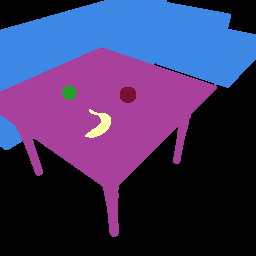
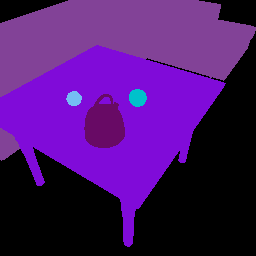
reality woven

diff --git a/datasets/twd_generation_simple4.py b/datasets/twd_generation_simple4.py
@@ -22,13 +22,13 @@ model_record2 = "wood_chair"
 full_library = ModelLibrarian("models_core.json")
 model_record = full_library.get_record("sink_cabinet_unit_wood_beech_honey_chrome_composite")
 #model_record2 = "sink_cabinet_unit_wood_beech_honey_chrome_composite"
-model_record2 = full_library.get_record("molteni_turner_sofa")
-model_record3 = full_library.get_record("b04_banana")
-model_record4 = full_library.get_record("toaster_002")
-model_record5 = full_library.get_record("teatray")
+model_record2 = full_library.get_record("b05_dacor_double_wall_oven")
+model_record3 = full_library.get_record("b04_orange_00")
+
+model_record5 = full_library.get_record("skillet_closed")
 
 dx = 0.0
-dz = 0.2
+dz = 0.3
 
 commands = [TDWUtils.create_empty_room(12, 12),
             #TDWUtils.create_room_from_image("/Users/melkor/Downloads/1.jpg"),
@@ -38,7 +38,7 @@ commands = [TDWUtils.create_empty_room(12, 12),
                             object_id = object_id),
 
             c.get_add_object(model_name = model_record2.name,
-                             position = {"x": -0.7, "y": 0, "z": -0.3},
+                             position = {"x": -0.7, "y": 0, "z": 0.3},
                              #library = "models_flex.json",
                              object_id = object_id2),
 
@@ -47,30 +47,16 @@ commands = [TDWUtils.create_empty_room(12, 12),
                             #library = "models_flex.json",
                             object_id = object_id3),
 
-            c.get_add_object(model_name = model_record4.name,
-                            position = {'x':1.1 + dx, 'y':1.0, 'z':+0.4 + dz},
+
+            c.get_add_object(model_name = model_record5.name,
+                            position = {'x':1.1 + dx, 'y':1.0, 'z':+0.6 + dz},
                             #library = "models_flex.json",
-                            object_id = object_id4),
-
-
-            {"$type": "add_object",
-                                  "name": model_record5.name,
-                                  "position" : {'x':1.1 + dx, 'y':1.0, 'z':+0.7 + dz},
-                                  "url": model_record5.get_url(),
-                                  "scale_factor": 0.6,
-                                  "rotation": model_record5.canonical_rotation,
-                                  "id": object_id5}
-            ,
+                            object_id = object_id5),
             c.get_add_material(material_name=material_name),
 
                              ]
 
 """
-            c.get_add_object(model_name = model_record5.name,
-                            position = {'x':1.1 + dx, 'y':1.0, 'z':+0.6 + dz},
-                            #library = "models_flex.json",
-                            object_id = object_id5),
-
             c.get_add_object(model_name = "cabinet_36_wall_wood_beech_honey_composite",
                             position = {"x": -0.7, 'y': .0, 'z':0.6},
                             object_id = c.get_unique_id()),
@@ -90,7 +76,7 @@ commands.extend([
     ]
 )
                              
-commands.extend(TDWUtils.create_avatar(position={"x": 1.6, "y": 1.6, "z": 1.9},
+commands.extend(TDWUtils.create_avatar(position={"x": 1.8, "y": 1.6, "z": 1.8},
                                        avatar_id="a",
                                        look_at={"x": -0.0, "y": -0.0, "z": 0.2}))
 
@@ -106,6 +92,7 @@ resp = c.communicate(commands)
 output_directory = str(Path.cwd().joinpath("datasets/ExampleImages"))
 print(f"Images will be saved to: {output_directory}")
 
+#resolution = (512,512)
 for i in range(len(resp) - 1):
     r_id = OutputData.get_data_type_id(resp[i])
     # Get Images output data.
@@ -113,6 +100,5 @@ for i in range(len(resp) - 1):
         images = Images(resp[i])
         # Determine which avatar captured the image.
         if images.get_avatar_id() == "a":
-            TDWUtils.save_images(images=images, filename="2", output_directory=output_directory)
+            TDWUtils.save_images(images=images, filename="4", output_directory=output_directory)
 c.communicate({"$type": "terminate"})
-

diff --git a/datasets/twd_generation_simple3.py b/datasets/twd_generation_simple3.py
@@ -22,10 +22,10 @@ model_record2 = "wood_chair"
 full_library = ModelLibrarian("models_core.json")
 model_record = full_library.get_record("sink_cabinet_unit_wood_beech_honey_chrome_composite")
 #model_record2 = "sink_cabinet_unit_wood_beech_honey_chrome_composite"
-model_record2 = full_library.get_record("molteni_turner_sofa")
-model_record3 = full_library.get_record("b04_bowl_smooth")
-model_record4 = full_library.get_record("toaster_002")
-model_record5 = full_library.get_record("b04_banana")
+model_record2 = full_library.get_record("b05_dacor_double_wall_oven")
+model_record3 = full_library.get_record("b04_orange_00")
+
+model_record5 = full_library.get_record("skillet_closed")
 
 dx = 0.0
 dz = 0.3
@@ -38,7 +38,7 @@ commands = [TDWUtils.create_empty_room(12, 12),
                             object_id = object_id),
 
             c.get_add_object(model_name = model_record2.name,
-                             position = {"x": -0.7, "y": 0, "z": -0.3},
+                             position = {"x": -0.7, "y": 0, "z": 0.3},
                              #library = "models_flex.json",
                              object_id = object_id2),
 
@@ -47,10 +47,6 @@ commands = [TDWUtils.create_empty_room(12, 12),
                             #library = "models_flex.json",
                             object_id = object_id3),
 
-            c.get_add_object(model_name = model_record4.name,
-                            position = {'x':1.1 + dx, 'y':1.0, 'z':+0.4 + dz},
-                            #library = "models_flex.json",
-                            object_id = object_id4),
 
             c.get_add_object(model_name = model_record5.name,
                             position = {'x':1.1 + dx, 'y':1.0, 'z':+0.6 + dz},
@@ -80,7 +76,7 @@ commands.extend([
     ]
 )
                              
-commands.extend(TDWUtils.create_avatar(position={"x": 1.7, "y": 1.6, "z": 1.6},
+commands.extend(TDWUtils.create_avatar(position={"x": 1.8, "y": 1.6, "z": 1.8},
                                        avatar_id="a",
                                        look_at={"x": -0.0, "y": -0.0, "z": 0.2}))
 
@@ -96,6 +92,7 @@ resp = c.communicate(commands)
 output_directory = str(Path.cwd().joinpath("datasets/ExampleImages"))
 print(f"Images will be saved to: {output_directory}")
 
+#resolution = (512,512)
 for i in range(len(resp) - 1):
     r_id = OutputData.get_data_type_id(resp[i])
     # Get Images output data.

diff --git a/datasets/tdw_generation_simple1.py b/datasets/tdw_generation_simple1.py
@@ -25,7 +25,7 @@ model_record = full_library.get_record("dining_room_table")
 model_record2 = full_library.get_record("molteni_turner_sofa")
 model_record3 = full_library.get_record("apple")
 model_record4 = full_library.get_record("orange")
-model_record5 = full_library.get_record("b04_banana")
+model_record5 = full_library.get_record("teakettle_01")
 
 commands = [TDWUtils.create_empty_room(12, 12),
             #TDWUtils.create_room_from_image("/Users/melkor/Downloads/1.jpg"),
